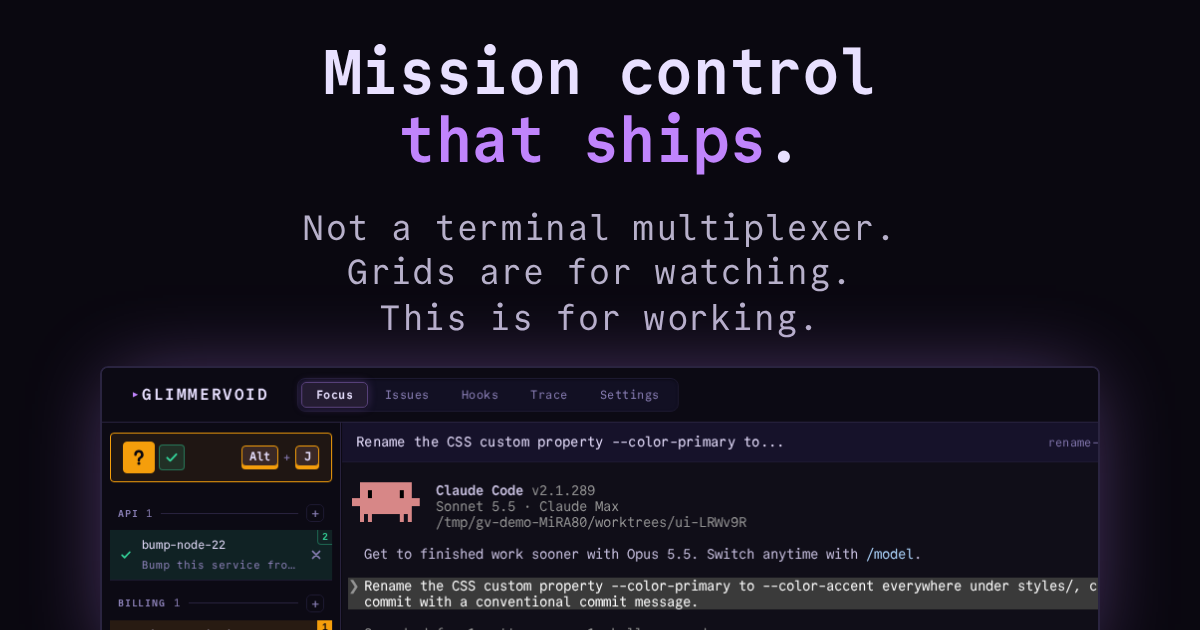
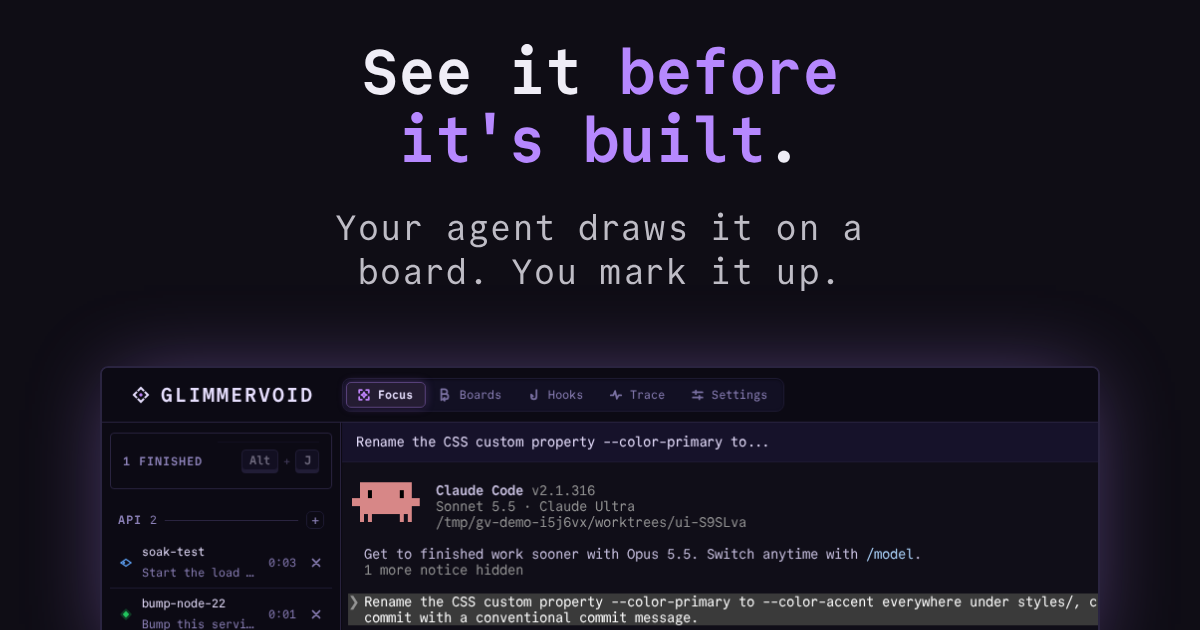
feat(brand): lead with boards, tagline See it before it's built
Boards are what sets Glimmervoid apart, so the tagline moves from
"Mission control that ships." to "See it before it's built." at its
source in the brand bible and everywhere it is quoted: README, package
description, site hero and lede, footer, social alt, the link-card
template and the re-rendered og.png, and the blog index description.
The og.png subline is shorter than the hero lede because the full lede
clipped under the screenshot in the 1200x630 card.

Confidence: high
Scope-risk: narrow
Ticket: site-boards-story/U1

diff --git a/marketing/social/templates/link-card.html b/marketing/social/templates/link-card.html
@@ -24,7 +24,7 @@ h1 em { font-style: normal; color: var(--brand-accent); }
 </head>
 <body>
 <main>
-<h1>Mission control <em>that ships</em>.</h1>
+<h1>See it <em>before it's built</em>.</h1>
 <p class="subline" data-slot="subline"></p>
 </main>
 <div class="window"><img data-slot="image" alt=""></div>

diff --git a/README.md b/README.md
@@ -6,7 +6,7 @@
 [![Node.js](https://img.shields.io/badge/node-%3E%3D24.15-brightgreen.svg)](https://nodejs.org)
 [![Platform: Windows | Linux | macOS](https://img.shields.io/badge/platform-Windows%20%7C%20Linux%20%7C%20macOS-0078d4)](https://github.com/johncwaters/glimmervoid)
 
-**Mission control that ships. Not a terminal multiplexer. Grids are for watching. This is for shipping.**
+**See it before it's built. Your coding agent sketches the screen, draws the architecture and shows you the result on a whiteboard beside its terminal. You mark it up, and it works from your marks.**
 
 [glimmervoid.dev](https://glimmervoid.dev)
 
